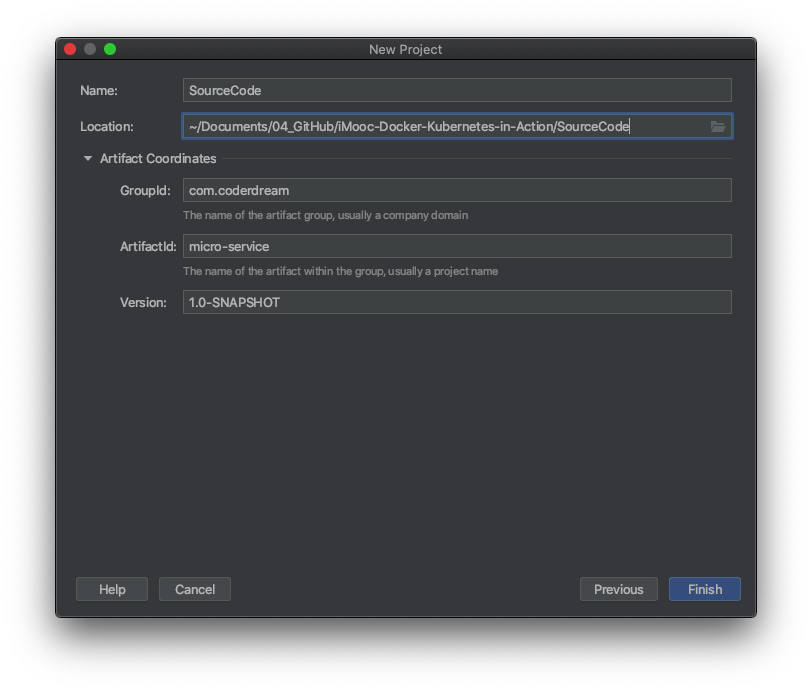
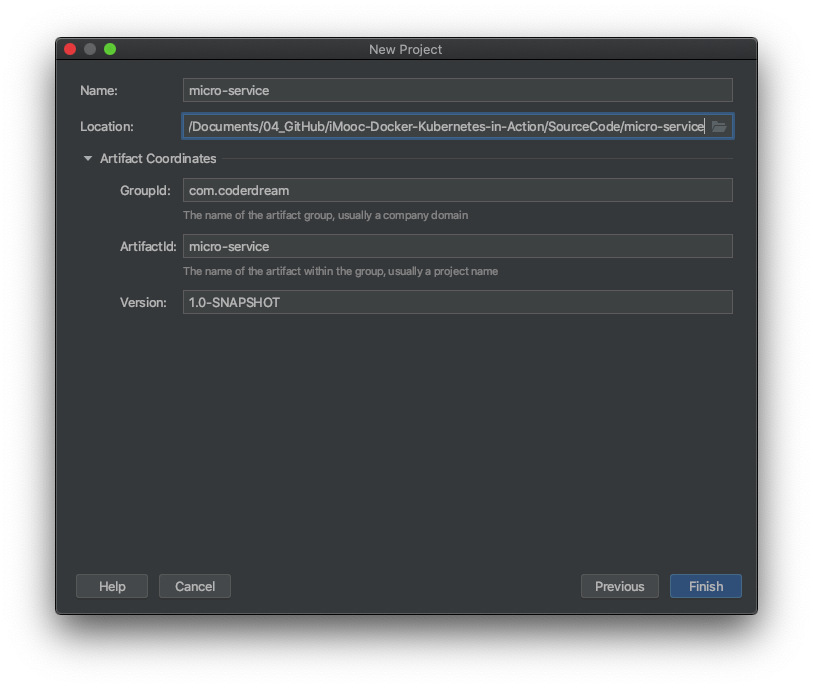
更新笔记 202005201004

diff --git a/SourceCode/message-thrift-python-service/message/message_service.py b/SourceCode/message-thrift-python-service/message/message_service.py
@@ -1,8 +1,18 @@
+# coding: utf-8
 from message.api import MessageService
 from thrift.transport import TSocket
 from thrift.transport import TTransport
 from thrift.protocol import TBinaryProtocol
 from thrift.server import TServer
+
+import smtplib
+from email.mime.text import MIMEText
+from email.header import Header
+
+#sender = 'acoder@126.com'
+#authCode = ''
+sender = 'imoocd@163.com'
+authCode = 'aA111111'
 
 class MessageServiceHandler:
     def sendMobileMessage(self, mobile, message):
@@ -12,7 +22,7 @@ class MessageServiceHandler:
          - message
 
         """
-        print("sendMobileMessage")
+        print("sendMobileMessage, mobile: " + mobile + ", message: " + message)
         return True
 
     def sendEmailMessage(self, email, message):
@@ -22,8 +32,21 @@ class MessageServiceHandler:
          - message
 
         """
-        print("sendEmailMessage")
-        return True
+        print("sendEmailMessage, email: " + email + ", message: " + message)
+        messageObj = MIMEText(message, "plain", "utf-8")
+        messageObj['From'] = sender
+        messageObj['To'] = email
+        messageObj['Subject'] = Header('慕课网邮件', 'utf-8')
+        try:
+            smtpObj = smtplib.SMTP('smpt.163.com')
+            smtpObj.login(sender, authCode)
+            smtpObj.sendmail(sender, [email], messageObj.as_string())
+
+            return True
+        except smtplib.SMTPException as ex:
+            print("send mail failed")
+            print(ex)
+            return False
 
 if __name__ == '__main__':
     handler = MessageServiceHandler()

diff --git a/SourceCode/README.md b/SourceCode/README.md
@@ -1,4 +1,8 @@
-# 用户服务
+
+
+# 服务
+
+## 用户服务
 
 - 用户登录
 - 用户注册
@@ -6,25 +10,55 @@
 - 无状态（无Session）
 - 单点登录
 
-# 课程服务
+## 课程服务
 
 - 登录验证
 - 课程的CURD
 
-# 信息服务
+## 信息服务
 
 - 发送邮件
 - 发送短信
 
-# 用户edgeservice
+## 用户edgeservice
 
-# 课程edgeservice
+## 课程edgeservice
 
-# API GATEWAY
+## API GATEWAY
 
 反向代理、服务路由
 
 
+
+# 3-1 微服务业务分析
+
+## 创建项目
+
+![](/Users/coderdream/Documents/04_GitHub/iMooc-Docker-Kubernetes-in-Action/images/Ch03/ch0301_01.jpg)
+
+- 设置项目名称、存放地点、GroupId和ArtifactId：
+
+![](/Users/coderdream/Documents/04_GitHub/iMooc-Docker-Kubernetes-in-Action/images/Ch03/ch0301_02.jpg)
+
+
+
+## 绘制UML图
+
+### 打开工具
+
+链接地址：[ProcessOn](https://processon.com/diagrams)
+
+点击左下角的【更多图形】进行设置：
+
+![](/Users/coderdream/Documents/04_GitHub/iMooc-Docker-Kubernetes-in-Action/images/Ch03/ch0301_03.jpg)
+
+### 绘制图形
+
+![](/Users/coderdream/Documents/04_GitHub/iMooc-Docker-Kubernetes-in-Action/images/Ch03/ch0301_04.jpg)
+
+
+
+# 3-2 Thrift安装与验证
 
 在IDEA中通过控制台，用brew安装python
 
@@ -258,4 +292,26 @@ coderdream@MacBook-Pro thrift-test % netstat -na|grep 9090
 tcp6       0      0  ::1.9090               *.*                    LISTEN
 coderdream@MacBook-Pro thrift-test %
 ```
+
+# 3-3 Python开发信息服务
+
+先删除src文件夹，然后创建Python的Module：
+
+![](/Users/coderdream/Documents/04_GitHub/iMooc-Docker-Kubernetes-in-Action/images/Ch03/ch0303_01.jpg)
+
+##    给IDEA安装Python插件
+
+- 进入【Preference...】菜单：
+
+![](/Users/coderdream/Documents/04_GitHub/iMooc-Docker-Kubernetes-in-Action/images/Ch03/ch0303_02.jpg)
+
+- 选择【Plugins】-》【Marketplace】，然后输入【Python】，选择找的的【Python】后，点击【Install】：
+
+![](/Users/coderdream/Documents/04_GitHub/iMooc-Docker-Kubernetes-in-Action/images/Ch03/ch0303_03.jpg)
+
+- 安装完成后即可新建Python类型的New Module了（Module SDK在此之前要先安装）：
+
+![](/Users/coderdream/Documents/04_GitHub/iMooc-Docker-Kubernetes-in-Action/images/Ch03/ch0303_04.jpg)
+
+
 
